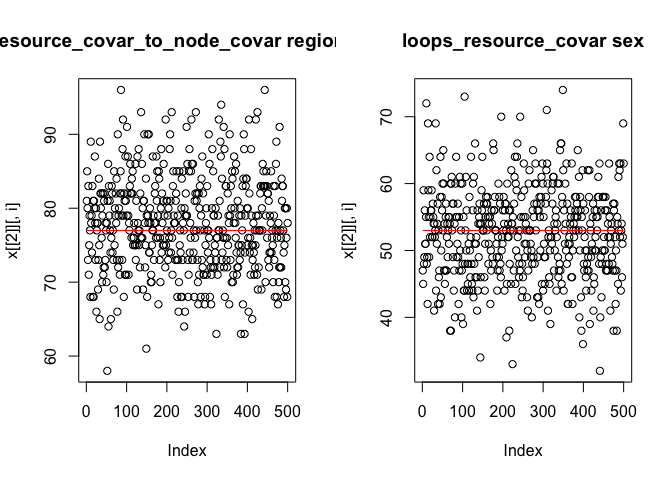
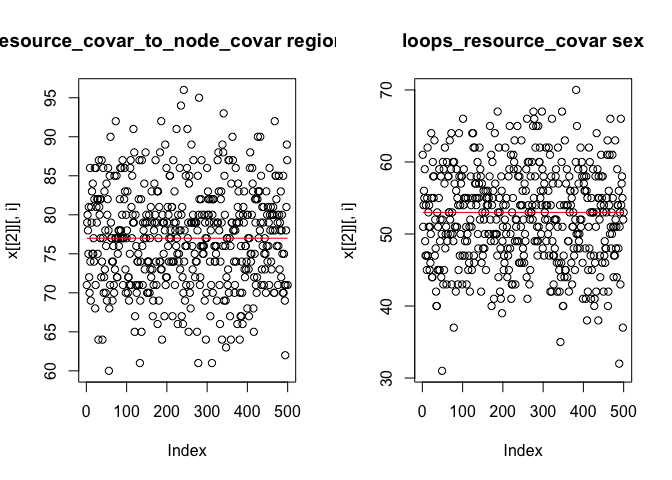
Update the print functions for state and effects

diff --git a/README.md b/README.md
@@ -173,6 +173,20 @@ myState <- monanDataCreate(transfers,
                            region,
                            size,
                            sex)
+
+# inspect the created object
+myState
+#> dependent variable: transfers with 742 people mobile between 17 organisations 
+#> 
+#> covariates of organisations 
+#>  cov. name    range    mean
+#>  sameRegion    0-1     0.52
+#>  region        0-1     0.41
+#>  size       2.85-10.45 7.09
+#> 
+#> covariates of people 
+#>  cov. name range mean
+#>        sex   0-1 0.53
 ```
 
 ### Specifying the model
@@ -206,6 +220,17 @@ myEffects <- createEffects(myState) |>
             node.attribute = "region",
             edge.attribute = "sex") |>
   addEffect(loops_resource_covar, edge.attribute = "sex")
+
+# inspect the created object
+myEffects
+#> Effects
+#>  effect name                  cov. organisations cov. people  parameter 
+#>  loops                                -               -           -     
+#>  reciprocity_min                      -               -           -     
+#>  dyadic_covariate                 sameRegion          -           -     
+#>  alter_covariate                     size             -           -     
+#>  resource_covar_to_node_covar       region           sex          -     
+#>  loops_resource_covar                 -              sex          -
 ```
 
 ### Optional: Pre-estimation
@@ -300,17 +325,17 @@ myResDN <- monanEstimate(
 #> 
 #> New parameters:
 #> loops 
-#>  2.45468289623172 
+#>  2.46396686901172 
 #>  reciprocity_min 
-#>  0.816157127073187 
+#>  0.841726185531432 
 #>  dyadic_covariate sameRegion 
-#>  1.67188401941038 
+#>  1.67267047987559 
 #>  alter_covariate size 
-#>  0.0370926547270755 
+#>  0.0390441265668085 
 #>  resource_covar_to_node_covar region sex 
-#>  -0.690558673270223 
+#>  -0.699526791016032 
 #>  loops_resource_covar sex 
-#>  -0.876176461695069 
+#>  -0.661677407486189 
 #> 
 #> Sub phase2:
 #>  burn-in 12614 steps
@@ -320,17 +345,17 @@ myResDN <- monanEstimate(
 #> 
 #> New parameters:
 #> loops 
-#>  2.59018581671187 
+#>  2.58945551927677 
 #>  reciprocity_min 
-#>  0.805452166237678 
+#>  0.822649502726496 
 #>  dyadic_covariate sameRegion 
-#>  1.69735500780951 
+#>  1.68941893211365 
 #>  alter_covariate size 
-#>  0.0394234931735728 
+#>  0.0377791832157455 
 #>  resource_covar_to_node_covar region sex 
-#>  -0.650562964471116 
+#>  -0.646629953302649 
 #>  loops_resource_covar sex 
-#>  -0.371413316266364 
+#>  -0.38756770740513 
 #> 
 #> Sub phase3:
 #>  burn-in 12614 steps
@@ -340,17 +365,17 @@ myResDN <- monanEstimate(
 #> 
 #> New parameters:
 #> loops 
-#>  2.58226764967502 
+#>  2.58295031015221 
 #>  reciprocity_min 
-#>  0.808636520919498 
+#>  0.823066219155376 
 #>  dyadic_covariate sameRegion 
-#>  1.68779341153775 
+#>  1.68182799583606 
 #>  alter_covariate size 
-#>  0.0356509914850755 
+#>  0.0360266312274088 
 #>  resource_covar_to_node_covar region sex 
-#>  -0.638751812649691 
+#>  -0.64507836617328 
 #>  loops_resource_covar sex 
-#>  -0.361651424773623
+#>  -0.364952198083325
 #> 
 #> Stopping cluster
 #> Starting phase 3:
@@ -385,7 +410,7 @@ estimates), another run is necessary.
 
 ``` r
 max(abs(myResDN$convergenceStatistics))
-#> [1] 0.1344503
+#> [1] 0.1776716
 ```
 
 If convergence is too high, update algorithm, re-run estimation with
@@ -412,7 +437,7 @@ myResDN <- monan07(
 ``` r
 # check convergence
 max(abs(myResDN$convergenceStatistics))
-#> [1] 0.1344503
+#> [1] 0.1776716
 ```
 
 In case convergence is still poor, updating the algorithm might be
@@ -425,19 +450,19 @@ convergence ratio. All values in the final column should be below 0.1
 myResDN
 #> Results
 #>                                   Effects   Estimates StandardErrors
-#> 1                                   loops  2.58226765     0.18222132
-#> 2                         reciprocity_min  0.80863652     0.17908610
-#> 3             dyadic_covariate sameRegion  1.68779341     0.10503515
-#> 4                    alter_covariate size  0.03565099     0.02411805
-#> 5 resource_covar_to_node_covar region sex -0.63875181     0.16602488
-#> 6                loops_resource_covar sex -0.36165142     0.21628418
+#> 1                                   loops  2.58295031     0.19060758
+#> 2                         reciprocity_min  0.82306622     0.17990564
+#> 3             dyadic_covariate sameRegion  1.68182800     0.11604643
+#> 4                    alter_covariate size  0.03602663     0.02403609
+#> 5 resource_covar_to_node_covar region sex -0.64507837     0.16794888
+#> 6                loops_resource_covar sex -0.36495220     0.22056637
 #>   Convergence
-#> 1 -0.08843565
-#> 2 -0.02568710
-#> 3  0.04150587
-#> 4 -0.08960032
-#> 5  0.13445030
-#> 6 -0.06490505
+#> 1 -0.14376262
+#> 2  0.17767159
+#> 3  0.07507506
+#> 4 -0.02198822
+#> 5  0.02559527
+#> 6 -0.09638885
 ```
 
 ## Diagnostics of the estimated model
@@ -451,7 +476,7 @@ problematic and indicate that a higher thinning is needed.
 
 ``` r
 autoCorrelationTest(myResDN)
-#> [1] 0.09444225
+#> [1] 0.09352938
 ```
 
 The output of extractTraces indicates the correlation of statistics
@@ -483,7 +508,7 @@ test_ME.2 <- scoreTest(myResDN, myEffects2)
 test_ME.2
 #> Results
 #>            Effects pValuesParametric pValuesNonParametric
-#> 1 transitivity_min      6.119308e-08                    0
+#> 1 transitivity_min      7.781315e-09                    0
 #> 
 #>  Parametric p-values: small = more significant 
 #>  Non-parametric p-values: further away from 0.5 = more significant
